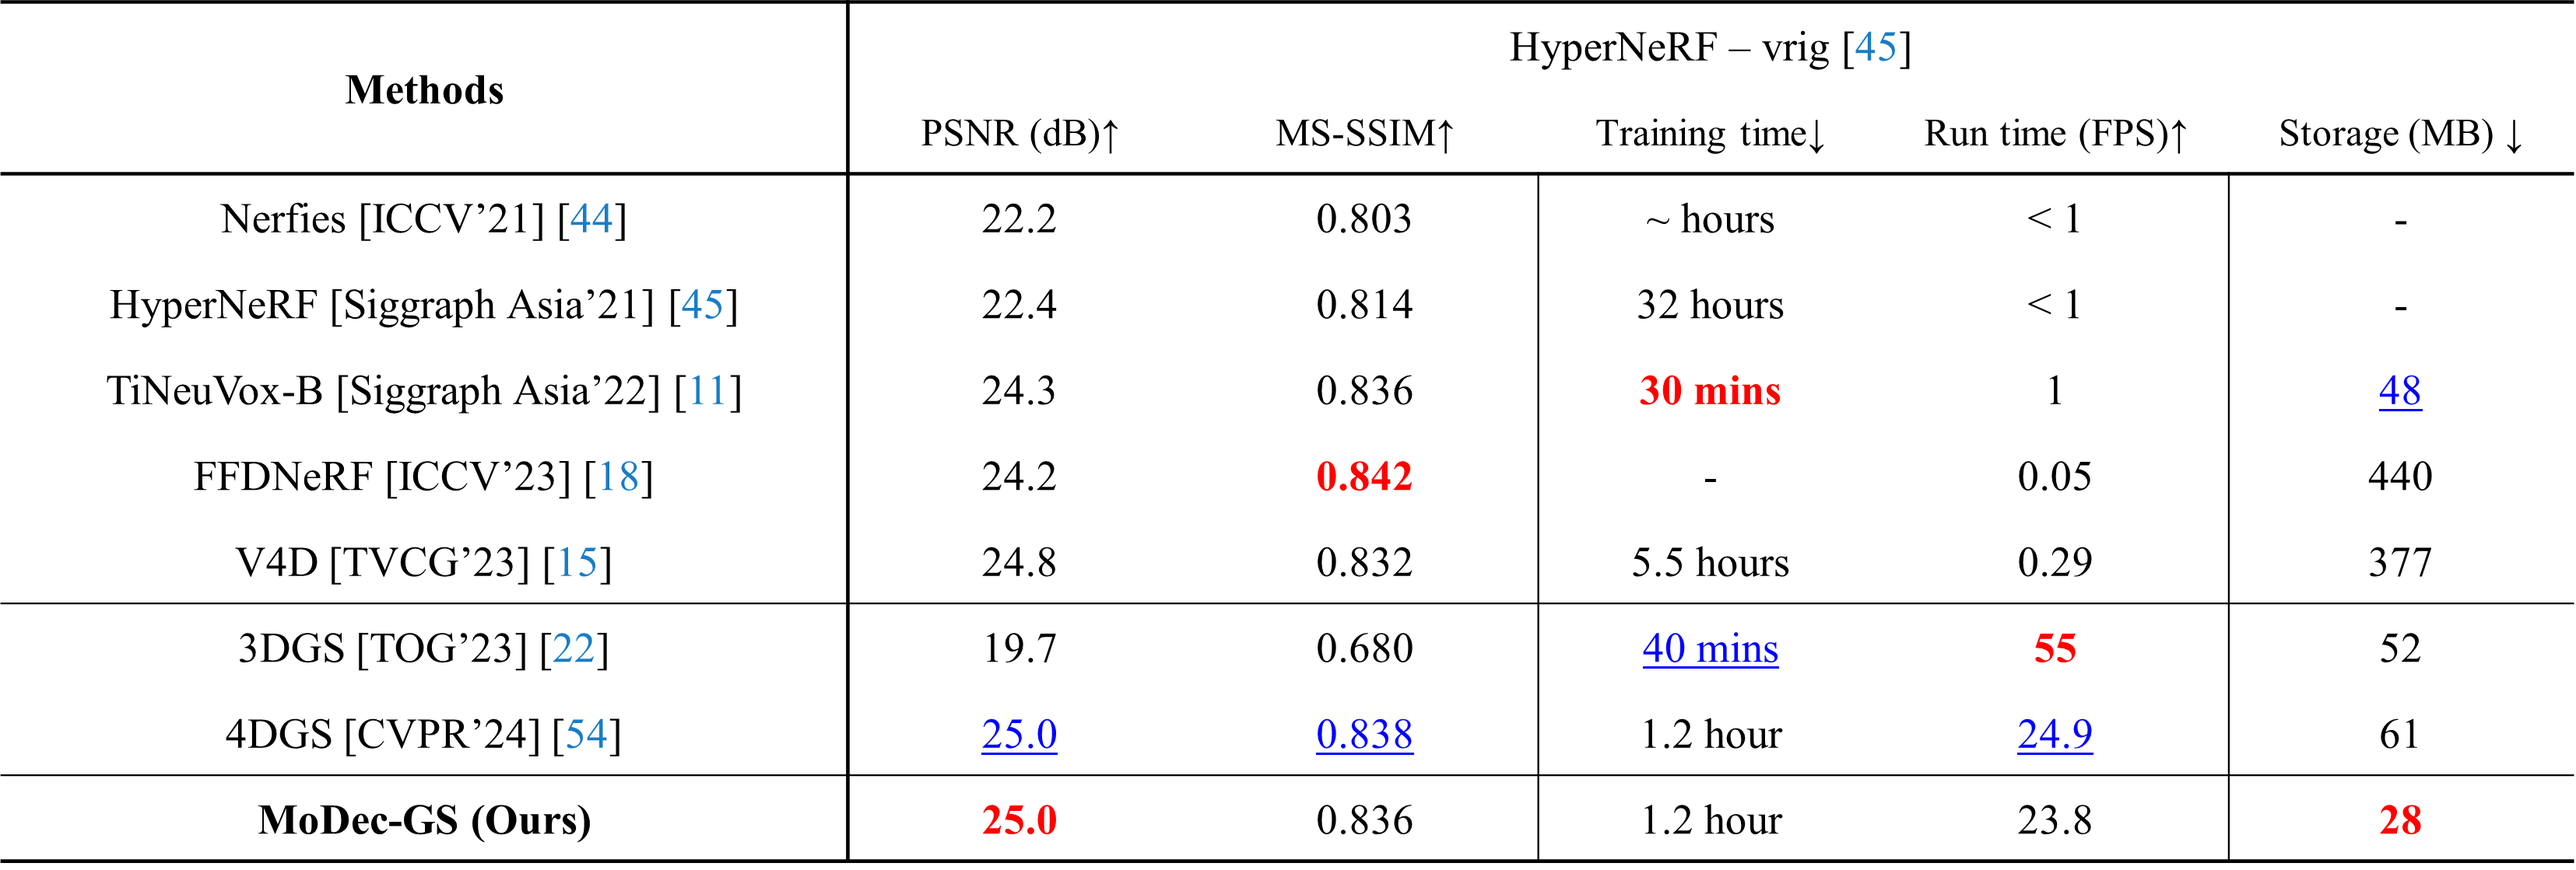
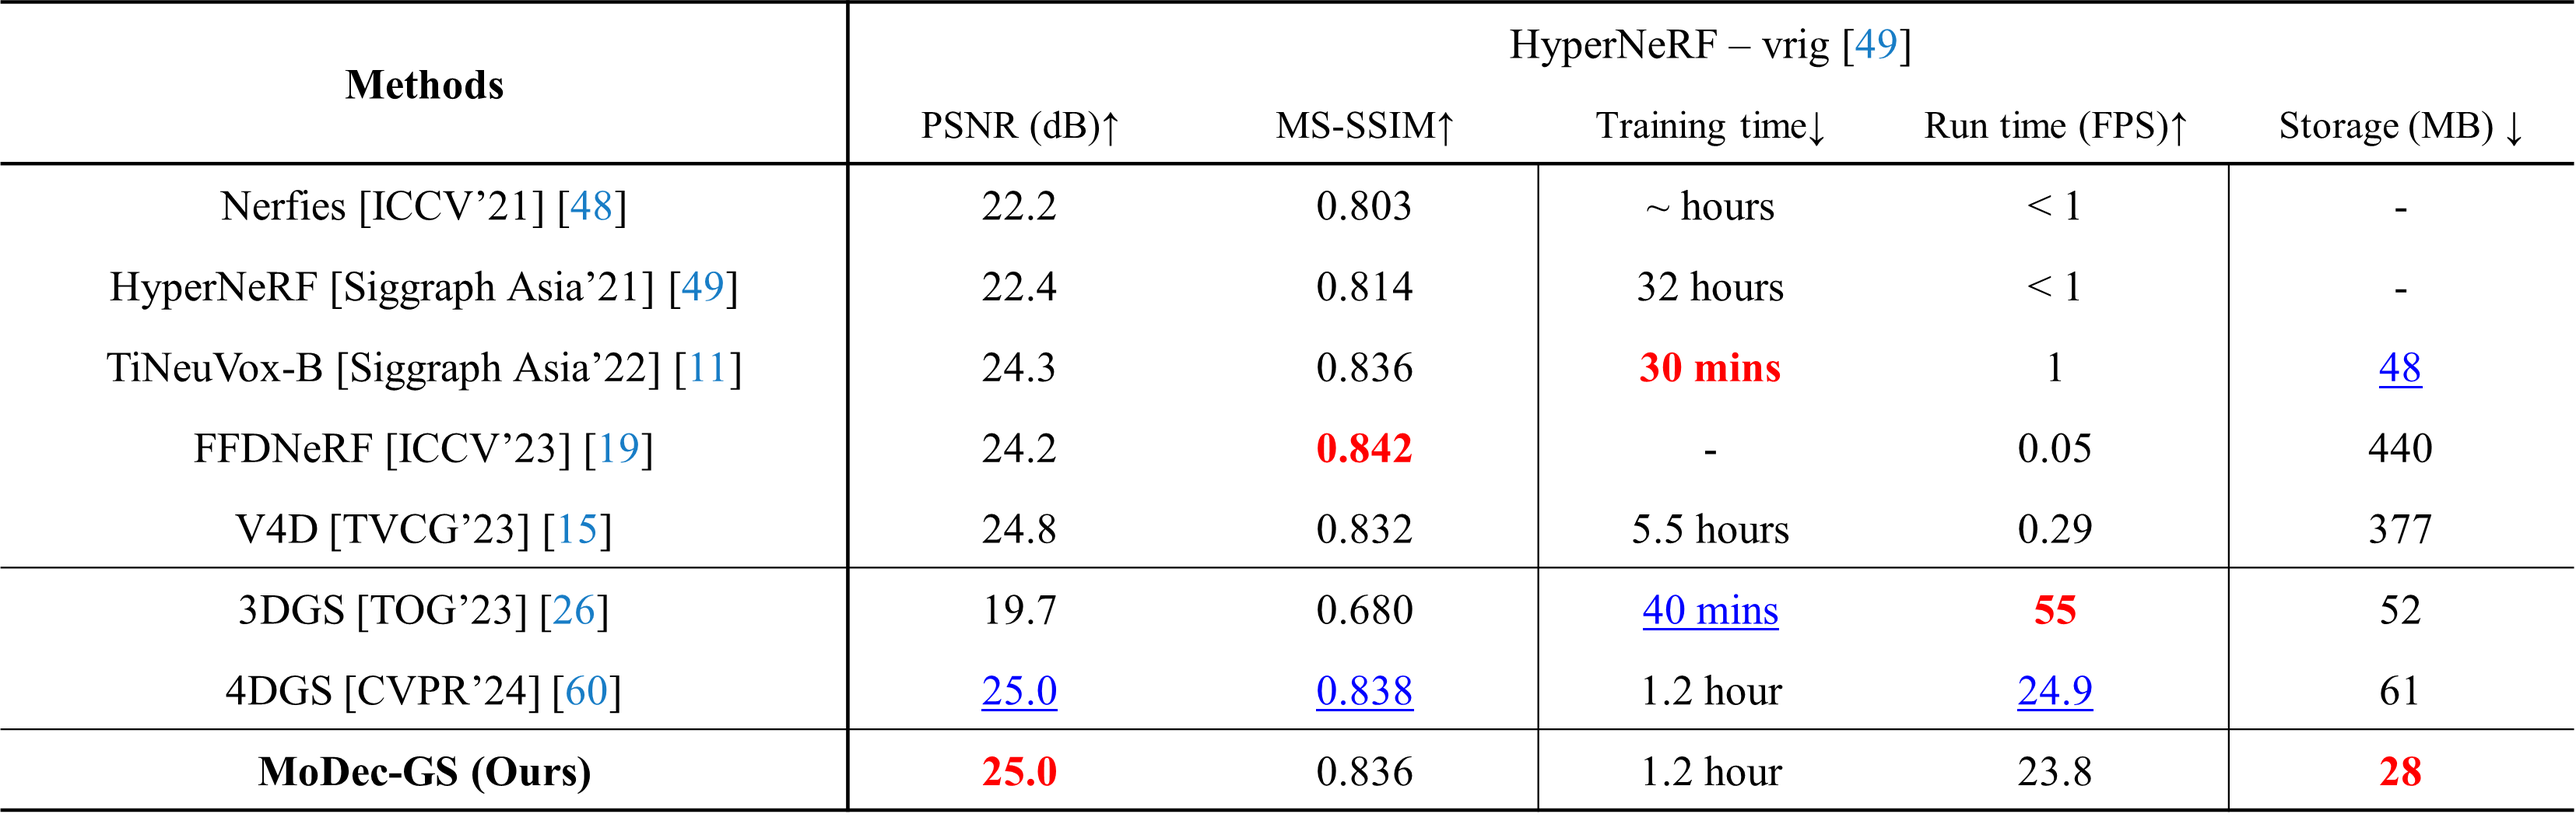
update MoDec-GS

diff --git a/MoDecGS-site/index.html b/MoDecGS-site/index.html
@@ -37,7 +37,6 @@
    }
   </style>
 
-
   <!-- Google tag (gtag.js) -->
   <script async src="https://www.googletagmanager.com/gtag/js?id=G-HR3PWVQLH2"></script>
   <script>
@@ -166,12 +165,12 @@
             </span>
               <!-- Code Link. -->
               <span class="link-block">
-                <a target="_blank" rel="noopener noreferrer" href=" "
+                <a target="_blank" rel="noopener noreferrer" href="https://github.com/skwak-kaist/MoDec-GS"
                    class="external-link button is-normal is-rounded is-dark">
                   <span class="icon">
                       <i class="fab fa-github"></i>
                   </span>
-                  <span>Code (To be released)</span>
+                  <span>Code</span>
                   </a>
               </span>
             </div>
@@ -187,8 +186,8 @@
   <div class="container is-widescreen">
     <h2 class="title is-3 no-bottom">NVS Visual Comparison with SOTA methods</h2>
     <div class="column is-full">
-    We compare our method with the state-of-the-art methods SC-GS [<span style="color: blue;">20</span>], 
-    4DGS [<span style="color: blue;">54</span>], Deformable 3DGS [<span style="color: blue;">57</span>] on monocular video sequences. We provide quantitative performance along with the novel view rendering results: PSNR<a href="#top">&uarr; </a>, SSIM<a href="#top">&uarr; </a>, 
+    We compare our method with the state-of-the-art methods SC-GS [<span style="color: blue;">21</span>], 
+    4DGS [<span style="color: blue;">60</span>], Deformable 3DGS [<span style="color: blue;">63</span>] on monocular video sequences. We provide quantitative performance along with the novel view rendering results: PSNR<a href="#top">&uarr; </a>, SSIM<a href="#top">&uarr; </a>, 
     LPIPS<a href="#bottom">&uarr; </a>, and storage size<a href="#bottom">&darr; </a>. 
     The proposed method shows <span style="color: red;">superior quantitative and qualitative quality performance</span> than SOTA methods 
     even with <span style="color: red;">compact model size</span>.<br><br>
@@ -345,7 +344,7 @@ explicitly deforms the reconstructed 3D Gaussians with a shared hexplane. During
       <div class="column is-full">
         <image src="./static/image/quantitative_results1-1.png" class="img-responsive" alt="quantitative_results"><br>
         <div class="content has-text-justified">
-          <strong style="color: black;">Quantitative results comparison of novel view synthesis</strong> on Dycheck-iPhone [<span style="color: blue;">16</span>] and HyperNeRF [<span style="color: blue;">45</span>] monocular datasets. 
+          <strong style="color: black;">Quantitative results comparison of novel view synthesis</strong> on Dycheck-iPhone [<span style="color: blue;">16</span>] and HyperNeRF [<span style="color: blue;">49</span>] monocular datasets. 
             All results were locally re-generated in our environment and averaged across all sequences of the dataset. 
             Red and blue denote the best and second best performances, respectively. For iPhone dataset, the masked metrics are calculated using the masks provided the authors. 
         <br><br>
@@ -353,7 +352,7 @@ explicitly deforms the reconstructed 3D Gaussians with a shared hexplane. During
             <image src="./static/image/quantitative_results2-1.png" class="img-responsive" alt="quantitative_results2"><br>
             
               Performance comparison with a NeRF-extension framework, including training and rendering speed. Averaged over 
-              536×960 HyperNeRF’s vrig datasets [<span style="color: blue;">43</span>]. The performance numbers of [<span style="color: blue;">11, 18, 22, 44, 45</span>] are sourced from [<span style="color: blue;">54</span>].  
+              536×960 HyperNeRF’s vrig datasets [<span style="color: blue;">49</span>]. The performance numbers of [<span style="color: blue;">11, 15, 19, 26, 48, 49</span>] are sourced from [<span style="color: blue;">60</span>].  
         </div>
       </div>
     </div>
@@ -372,16 +371,16 @@ explicitly deforms the reconstructed 3D Gaussians with a shared hexplane. During
     <section class="section" id="BibTeX">
       <div class="container is-widescreen content">
         <h2 class="title">BibTeX</h2>
-        <pre><code>@misc{kwak2025modecgsglobaltolocalmotiondecomposition,
+        <pre><code>
+  @InProceedings{kwak2025modecgs,
   title={MoDec-GS: Global-to-Local Motion Decomposition and Temporal Interval Adjustment for Compact Dynamic 3D Gaussian Splatting}, 
   author={Sangwoon Kwak and Joonsoo Kim and Jun Young Jeong and Won-Sik Cheong and Jihyong Oh and Munchurl Kim},
+  booktitle = {Proceedings of the IEEE/CVF Conference on Computer Vision and Pattern Recognition (CVPR)},
   year={2025},
-  eprint={2501.03714},
-  archivePrefix={arXiv},
-}</code></pre>
+  }
+</code></pre>
       </div>
     </section>
-
 
 <footer class="footer">
   <div class="container">
